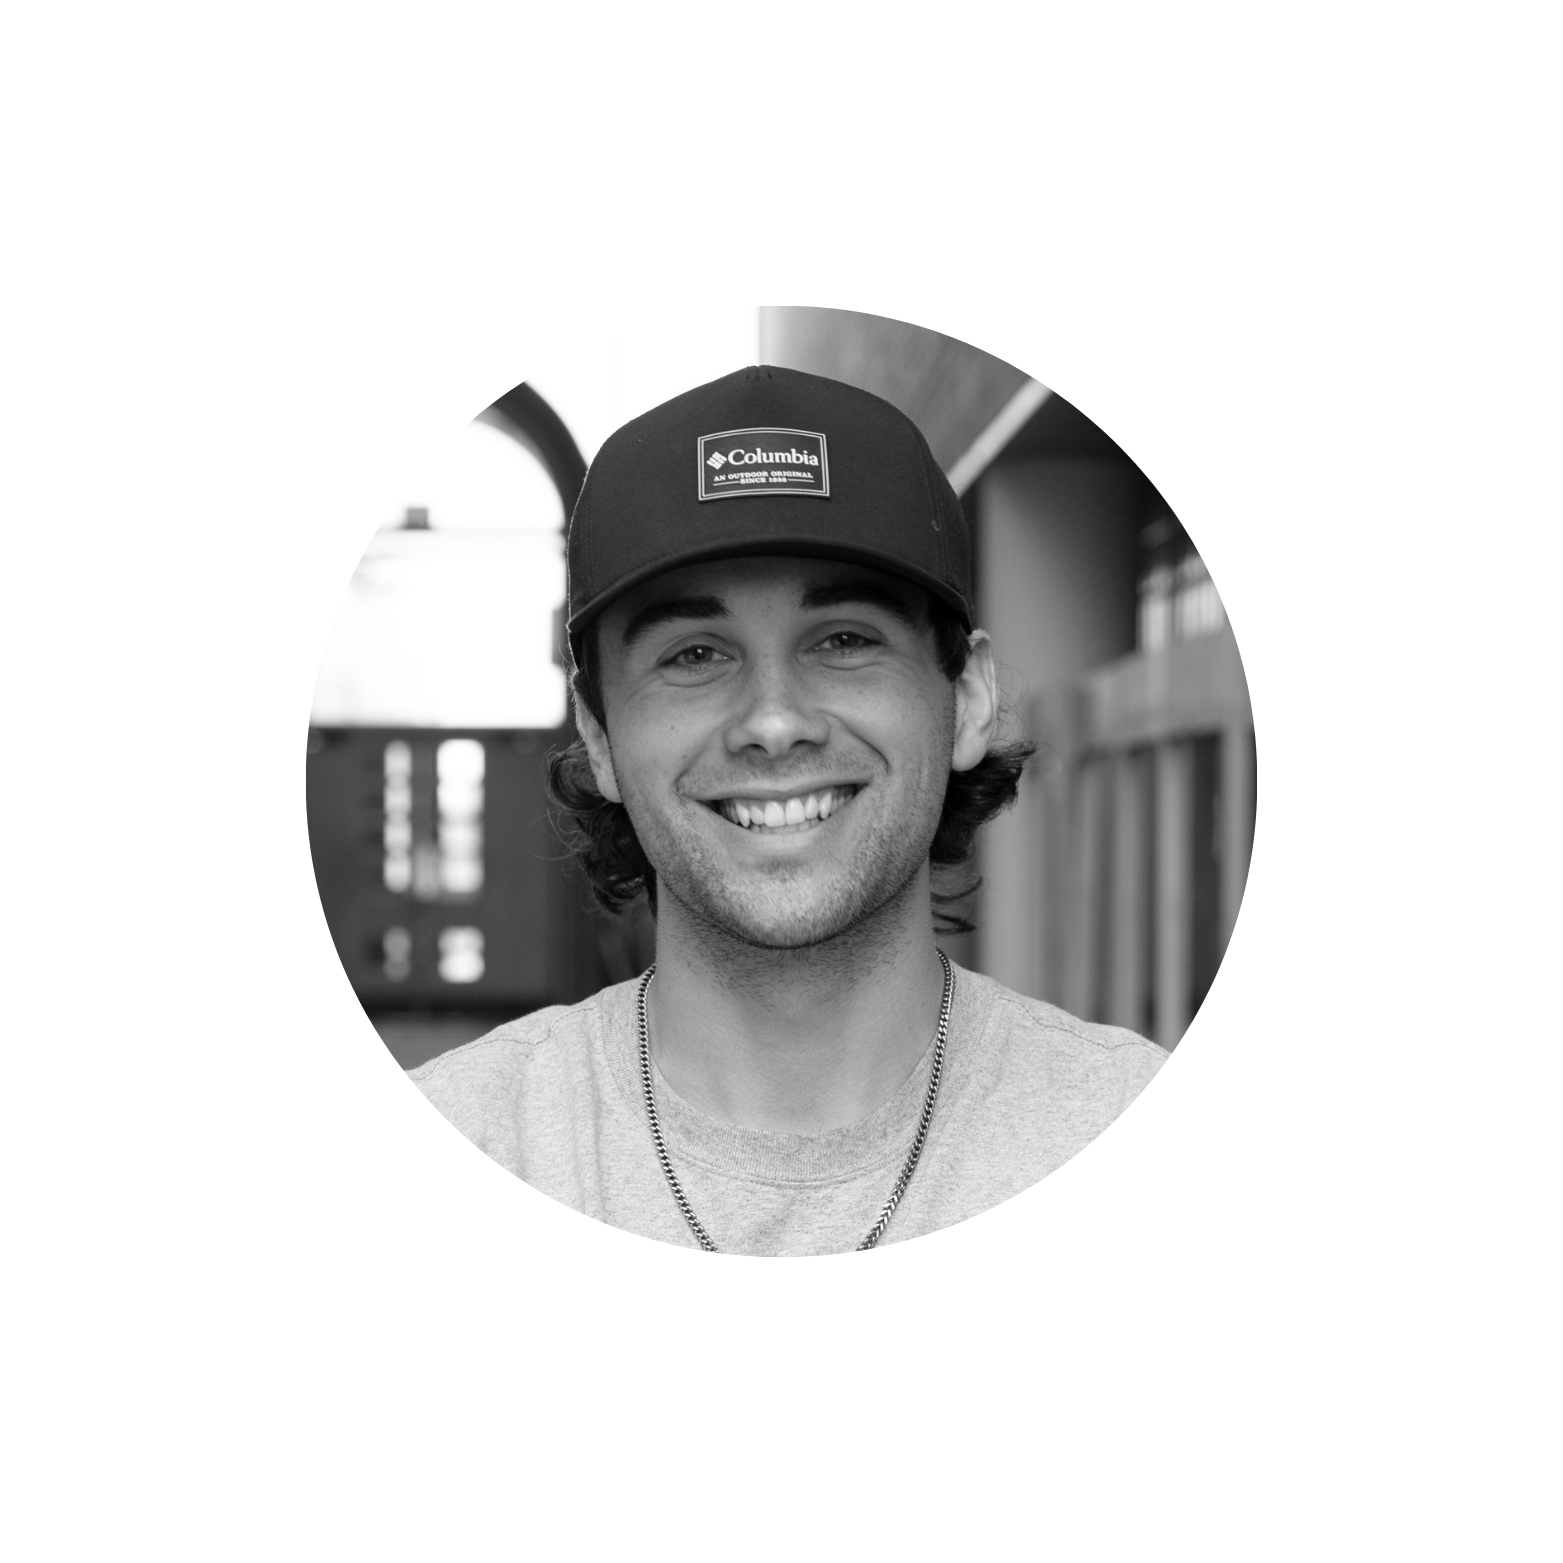
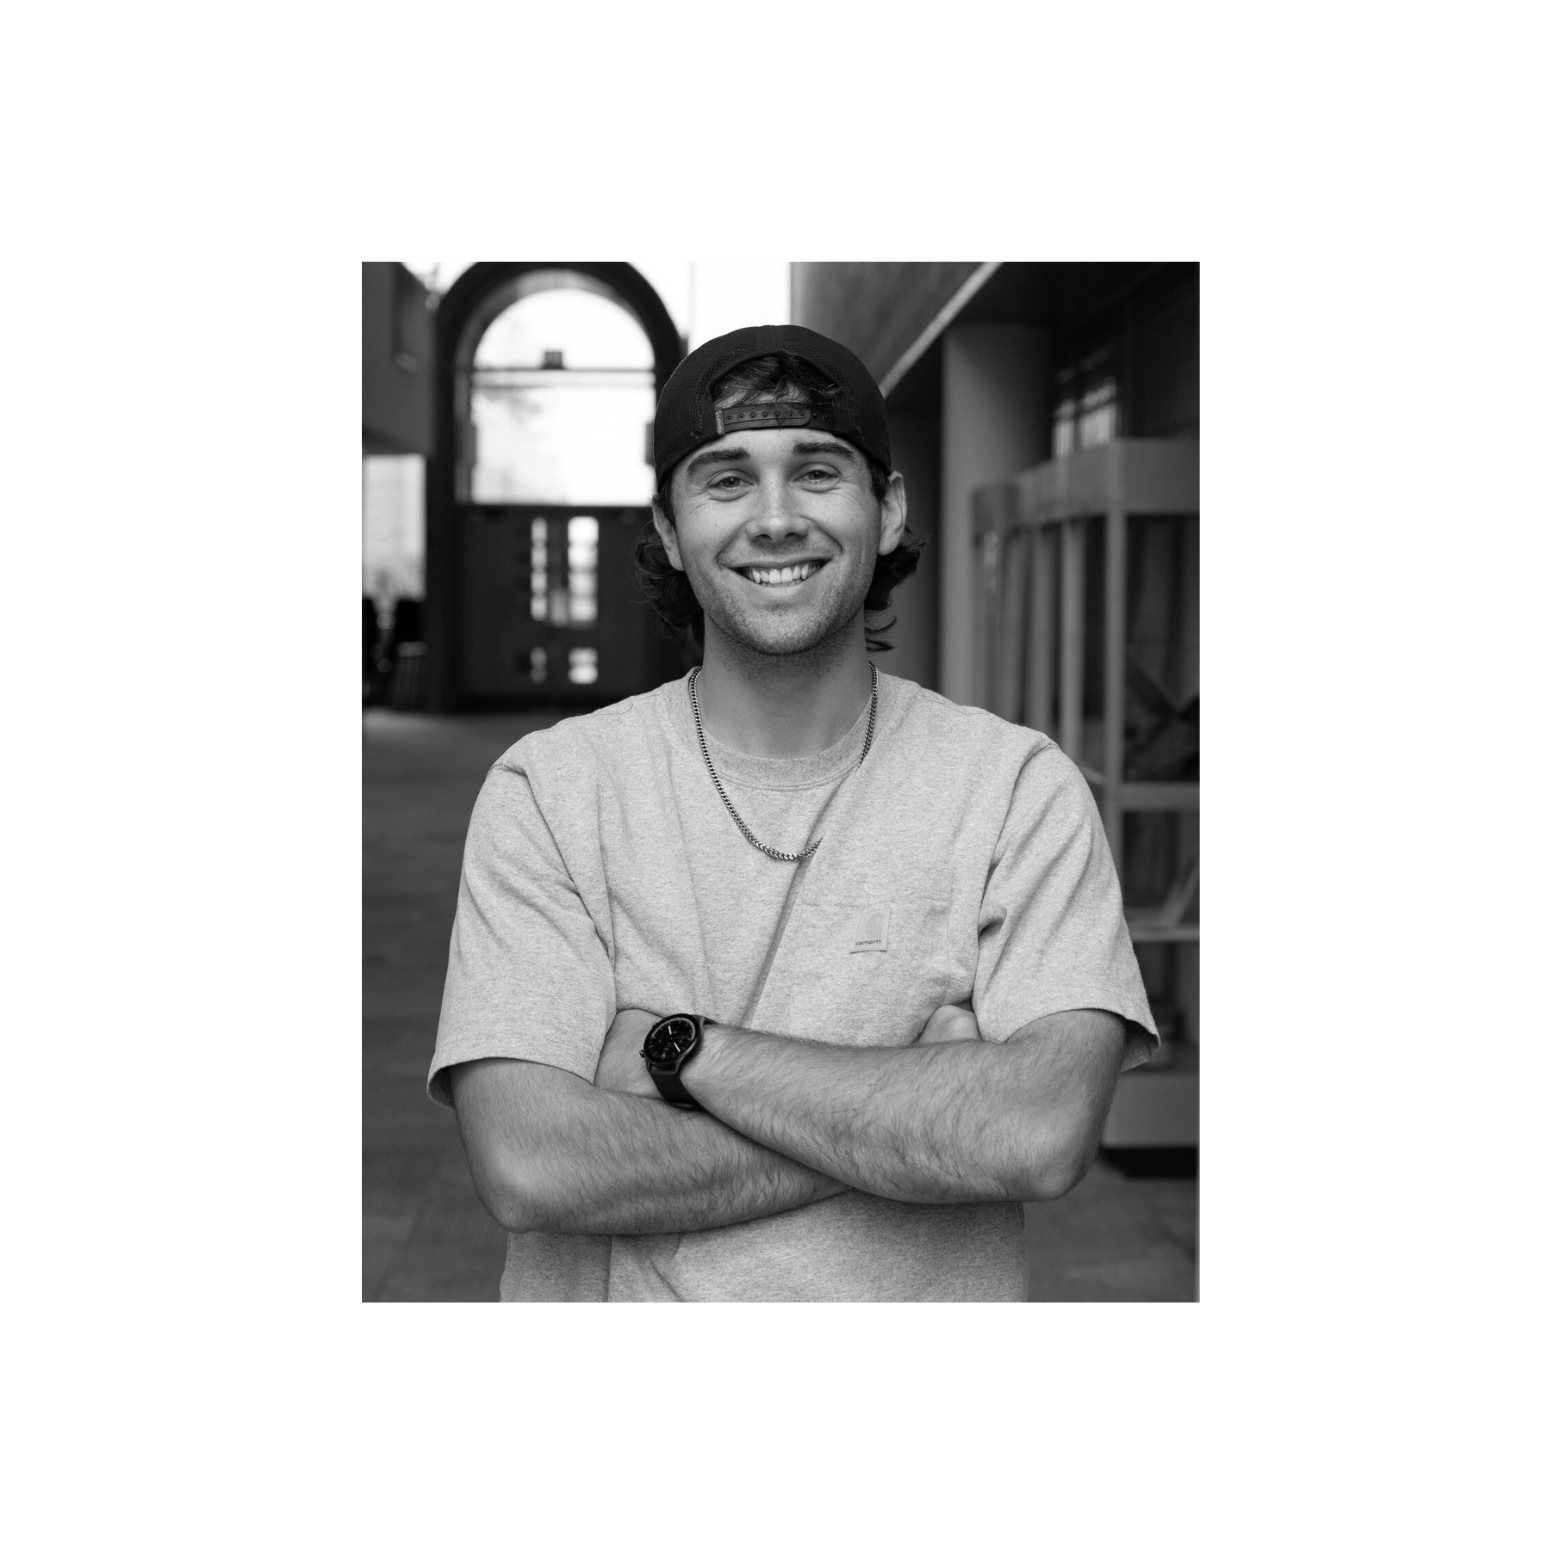
Switch team photos to portrait rectangles side by side

diff --git a/story.html b/story.html
@@ -199,9 +199,9 @@
         }
 
         .team-members {
-            display: flex;
-            flex-direction: column;
-            gap: 2rem;
+            display: grid;
+            grid-template-columns: 1fr 1fr;
+            gap: 1.5rem;
         }
 
         .team-member {
@@ -209,18 +209,17 @@
         }
 
         .team-photo-wrap {
-            width: 180px; height: 180px;
-            border-radius: 50%;
-            border: 3px solid var(--gold);
+            width: 100%;
+            aspect-ratio: 4 / 5;
+            border-radius: 12px;
             overflow: hidden;
-            margin: 0 auto 1rem;
+            margin-bottom: 0.75rem;
             background: var(--bg-mid);
         }
 
         .team-photo-wrap img {
-            width: 150%;
-            height: 150%;
-            margin: -25% 0 0 -25%;
+            width: 100%;
+            height: 100%;
             object-fit: cover;
             object-position: center top;
             filter: grayscale(100%);
@@ -228,13 +227,13 @@
 
         .team-member h4 {
             font-family: 'Sora', sans-serif;
-            font-size: 1.1rem; font-weight: 700;
+            font-size: 0.95rem; font-weight: 700;
             color: var(--cream);
-            margin-bottom: 0.2rem;
+            margin-bottom: 0.15rem;
         }
 
         .team-member .team-role {
-            font-size: 0.85rem;
+            font-size: 0.78rem;
             color: var(--gold);
             font-weight: 600;
         }
@@ -279,13 +278,6 @@
             }
             .story-bottom-left {
                 text-align: center;
-            }
-            .team-members {
-                flex-direction: row;
-                justify-content: center;
-            }
-            .team-photo-wrap {
-                width: 150px; height: 150px;
             }
         }
 
